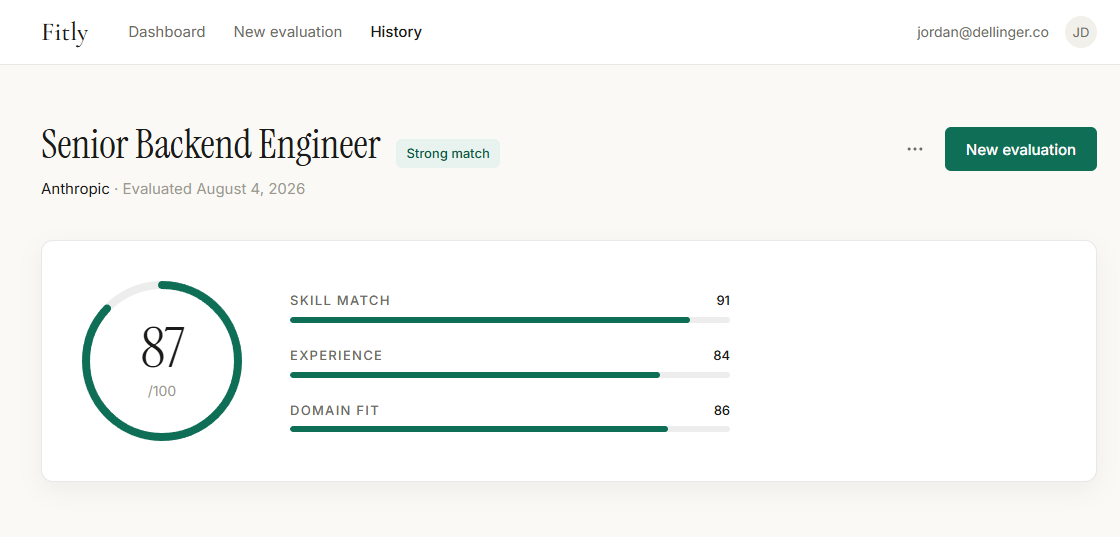
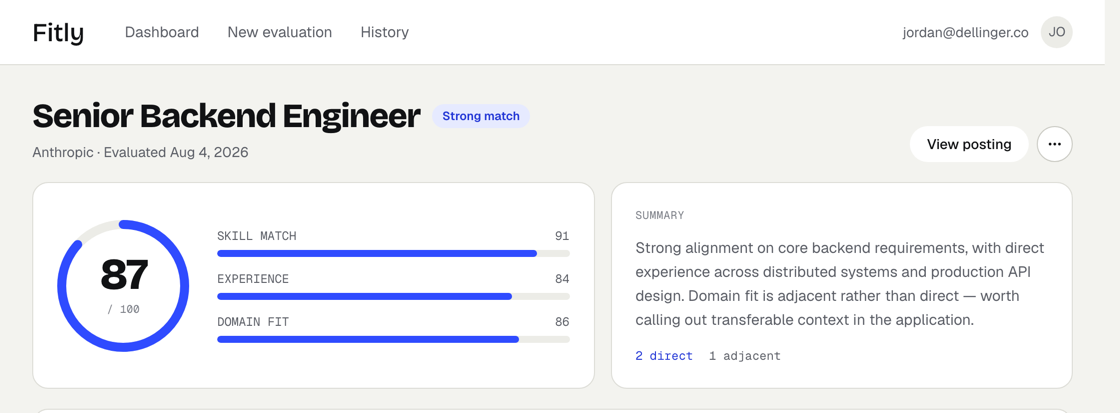
Finish landing page rebrand: dedicated header, refreshed hero screenshot
The hero image still showed the pre-rebrand evaluation screen (serif
wordmark, green accent). Regenerated it against the current design
tokens so it matches the rest of the page on both mobile and desktop.
Also extracted the landing page's header into its own component
instead of inline markup in page.tsx.

diff --git a/app/page.tsx b/app/page.tsx
@@ -1,21 +1,14 @@
 import Image from 'next/image';
 import { GoogleSignInButton } from '@/components/auth/google-sign-in-button';
 import { PercentIcon, TargetIcon, ListIcon, HistoryIcon } from '@/components/icons';
+import { LandingHeader } from '@/components/layout/landing-header';
 
 const WRAP = 'mx-auto max-w-[1120px] px-8';
 
 export default function Home() {
   return (
     <div className="flex min-h-screen flex-col bg-page">
-      {/* Header — bare wordmark. No nav, no sign-in link: the CTA lives in the
-          hero and the bottom section, matching the design exactly. */}
-      <header className="border-b border-hairline">
-        <div className={`${WRAP} flex items-center py-5`}>
-          <span className="font-wordmark text-[26px] font-medium tracking-[-0.005em] text-ink">
-            Fitly
-          </span>
-        </div>
-      </header>
+      <LandingHeader />
 
       <main className="flex-1">
         {/* Hero */}
@@ -49,7 +42,7 @@ export default function Home() {
                   src="/hero-evaluation.png"
                   alt="Evaluation result for a Senior Backend Engineer posting: an 87 out of 100 score with skill match, experience, and domain fit sub-scores."
                   width={1120}
-                  height={537}
+                  height={413}
                   className="h-auto w-full"
                   priority
                 />

diff --git a/components/layout/landing-header.tsx b/components/layout/landing-header.tsx
@@ -1,0 +1,16 @@
+import Link from 'next/link';
+
+export function LandingHeader() {
+  return (
+    <header className="border-b border-hairline">
+      <div className="mx-auto flex max-w-[1120px] items-center px-5 py-5 sm:px-8">
+        <Link
+          href="/"
+          className="font-wordmark text-2xl font-medium tracking-[-0.005em] text-ink sm:text-[26px]"
+        >
+          Fitly
+        </Link>
+      </div>
+    </header>
+  );
+}
